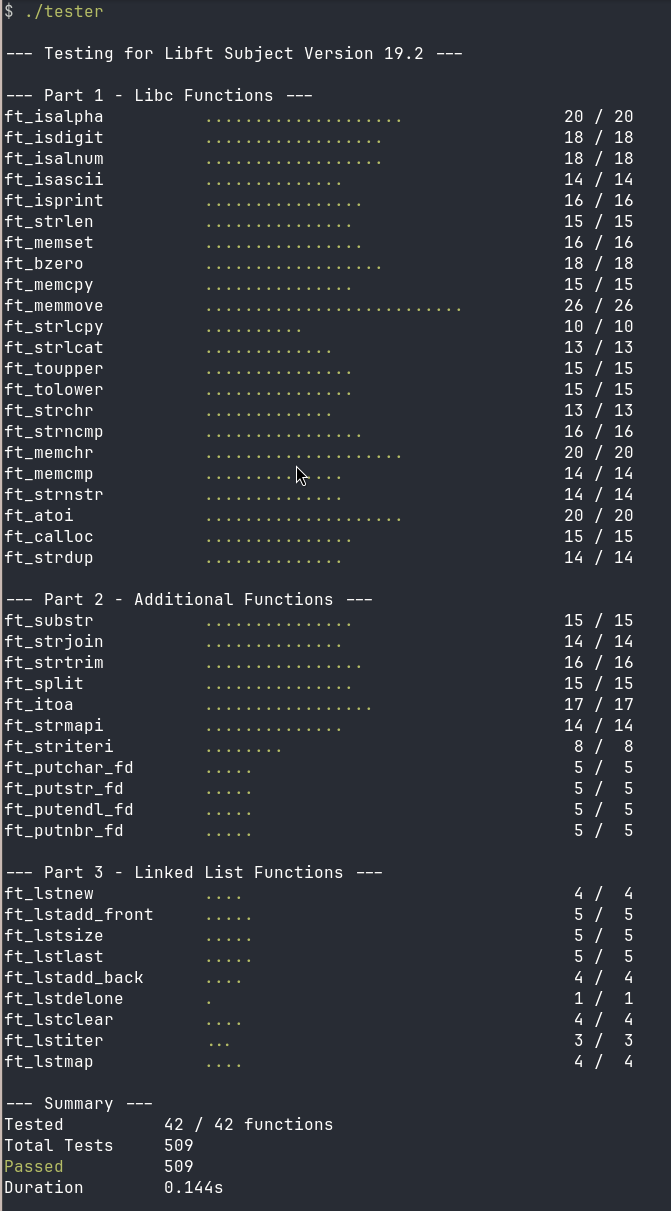
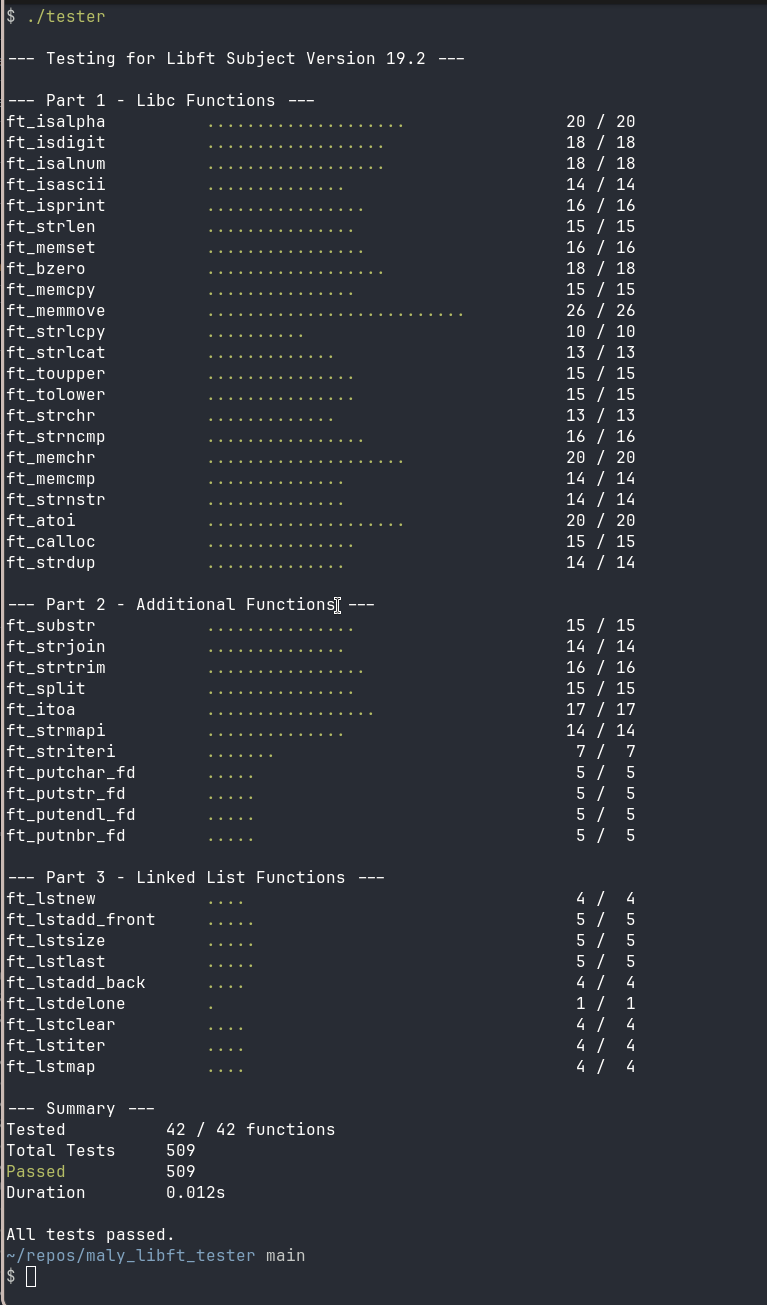
update assets and readme.md

diff --git a/README.md b/README.md
@@ -4,7 +4,7 @@
 
 Currently up-to-date with Libft subject version 19.2.
 
-This tester executes over 500 tests in under 0.3 seconds.<br>
+This tester executes over 500 tests in under 0.02 seconds.<br>
 
 # Table of Contents
 1. [Prerequisites](#prerequisites)
@@ -32,7 +32,7 @@ Run the tests:
 ```bash
 ./tester
 ```
-For more information (like output files or no-fork mode), run:
+For more information about command-line arguments that can be parsed, run:
 ```bash
 ./tester --help
 ```
@@ -55,7 +55,7 @@ Make sure to update the path to point to where you cloned the tester:<br>
 ```make
 #  The Maly Libft Tester Setup for Makefile
 TESTER_DIRECTORY := ../maly_libft_tester
-TESTER_ARGUMENTS := 
+TESTER_ARGUMENTS := --set-timeout-ms 50
 ```
 Create a new rule named test:
 ```make